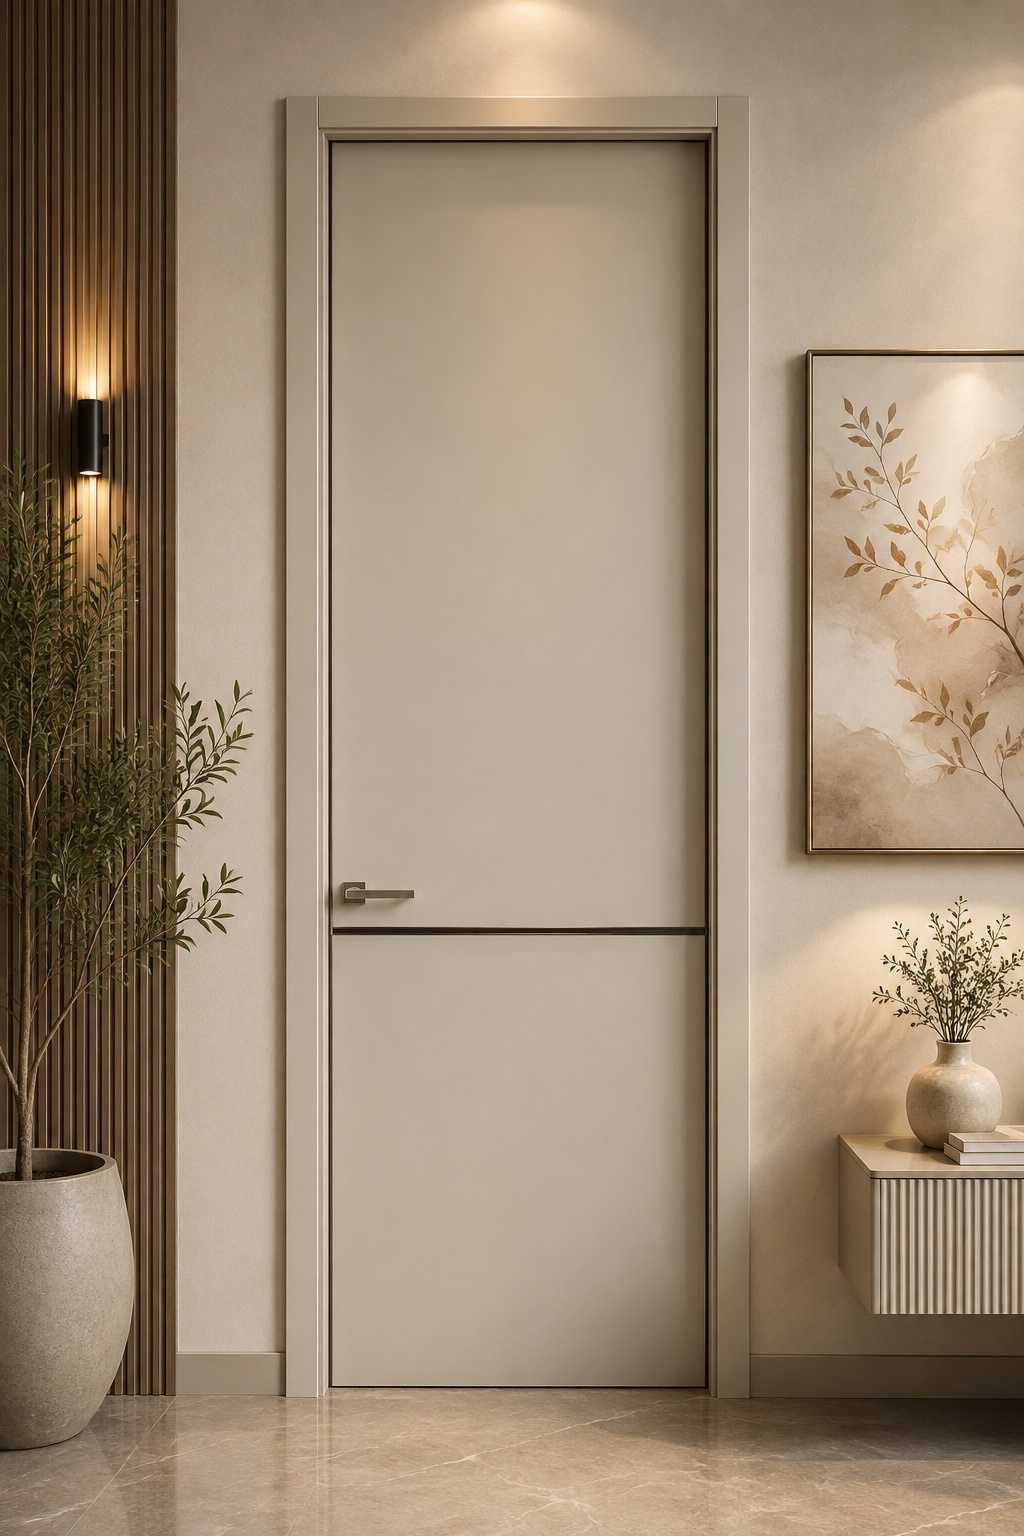
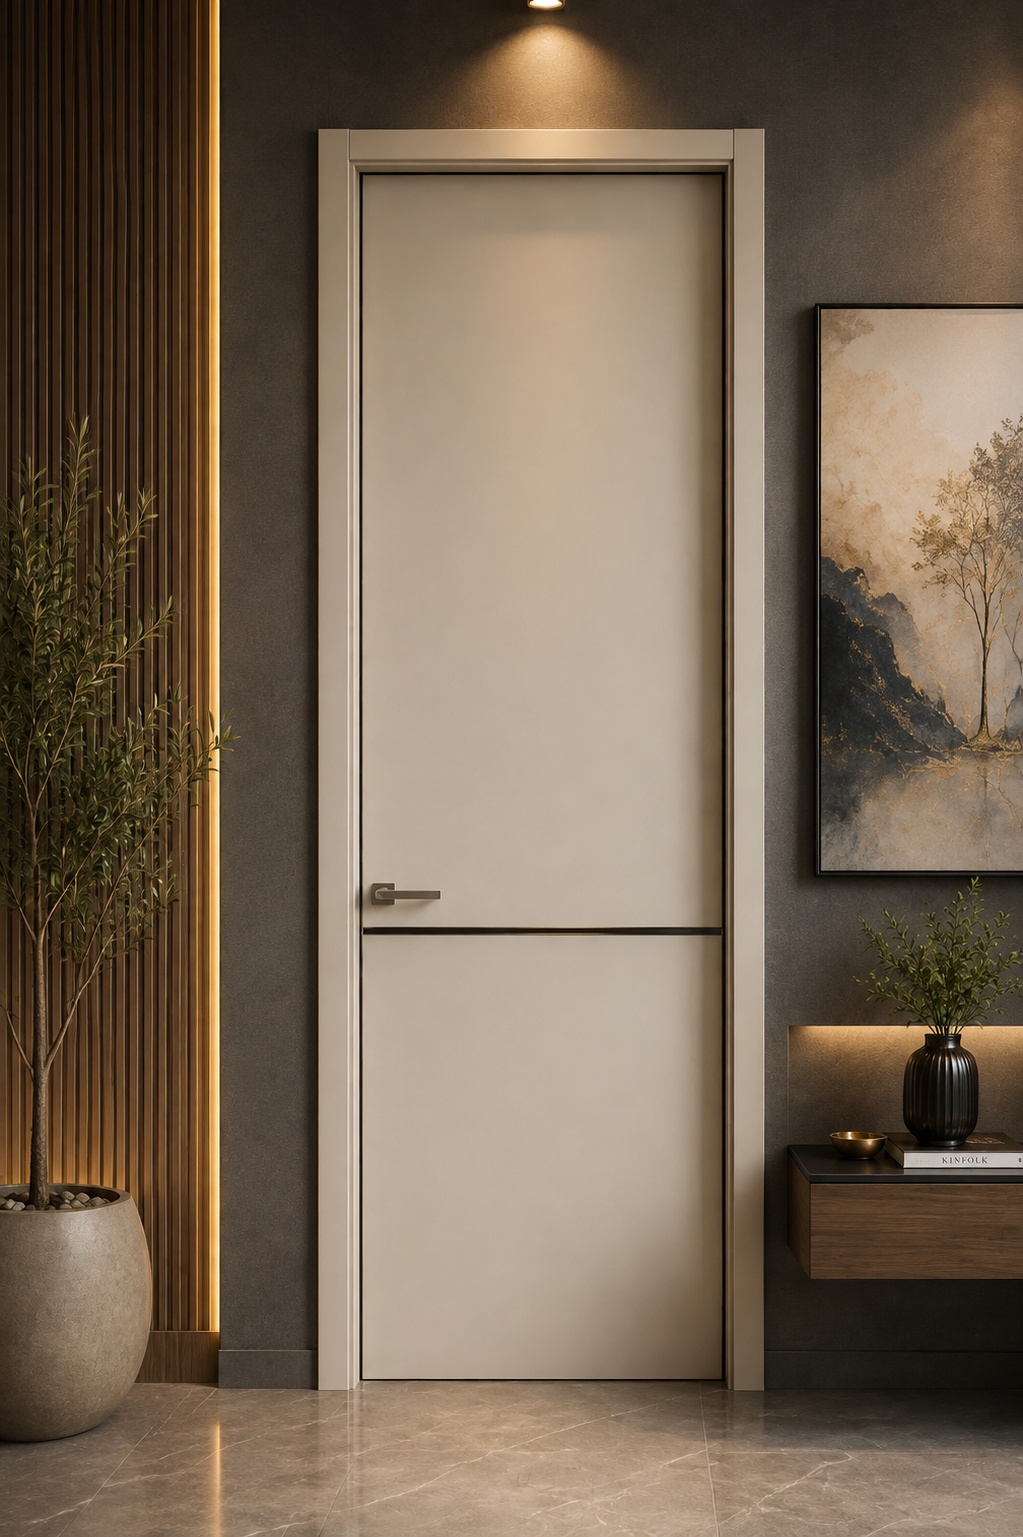
Fix punctuation and improve readability in various pages

diff --git a/app/our-story/page.tsx b/app/our-story/page.tsx
@@ -34,7 +34,7 @@ export default function OurStoryPage() {
           </h1>
 
           <p className="kicker">
-            Timeless design, reliable quality, and lasting durability —
+            Timeless design, reliable quality, and lasting durability
             engineered for modern living.
           </p>
         </div>
@@ -56,7 +56,7 @@ export default function OurStoryPage() {
               </span>
 
               <h2 className="serif story-title">
-                Doors that don&apos;t just connect spaces — they define them.
+                Doors that don&apos;t just connect spaces they define them.
               </h2>
 
               <p>
@@ -77,7 +77,7 @@ export default function OurStoryPage() {
               <p>
                 With a commitment to quality craftsmanship and attention to
                 detail, WoodLand is dedicated to creating doors that
-                don&apos;t just connect spaces — they define them.
+                don&apos;t just connect spaces they define them.
               </p>
             </div>
 
@@ -124,8 +124,8 @@ export default function OurStoryPage() {
           </h2>
 
           <p>
-            Instead of relying on solid timber — which swells, cracks, and
-            needs repainting — every WoodLand door is built from engineered
+            Instead of relying on solid timber which swells, cracks, and
+            needs repainting every WoodLand door is built from engineered
             PET, PPH, or CCP panels, sealed against moisture from the core
             out.
           </p>
@@ -144,7 +144,7 @@ export default function OurStoryPage() {
               <h4>PET</h4>
 
               <p>
-                Sealed core for wet areas — bathrooms, kitchens, utility
+                Sealed core for wet areas bathrooms, kitchens, utility
                 doors.
               </p>
             </div>
@@ -206,7 +206,7 @@ export default function OurStoryPage() {
 
               <p>
                 No polish, no paint, no annual touch-ups. Every WoodLand door
-                is finished to stay finished — water resistant, scratch
+                is finished to stay finished water resistant, scratch
                 resistant, termite proof, from the day it&apos;s fitted.
               </p>
             </div>
@@ -228,7 +228,7 @@ export default function OurStoryPage() {
 
               <p>
                 Engineered panels don&apos;t have the natural variance of
-                timber — what you approve in the showroom is exactly what
+                timber what you approve in the showroom is exactly what
                 arrives on-site, every single time.
               </p>
             </div>
@@ -250,7 +250,7 @@ export default function OurStoryPage() {
 
               <p>
                 From the panel to the lock, we supply and fit the hardware
-                that finishes the job — mortise sets, smart locks, handles,
+                that finishes the job mortise sets, smart locks, handles,
                 and hinges, matched and installed.
               </p>
             </div>

diff --git a/app/door-locks/page.tsx b/app/door-locks/page.tsx
@@ -30,7 +30,7 @@ export default function DoorLocksPage() {
           </h1>
           <p className="kicker">
             A door is only as secure as what closes it. We supply and fit
-            locking hardware matched to every WoodLand door — and most
+            locking hardware matched to every WoodLand door and most
             existing ones too.
           </p>
         </div>
@@ -51,7 +51,7 @@ export default function DoorLocksPage() {
                 <h3 className="serif">Mortise &amp; Cylindrical Locksets</h3>
                 <p>
                   Heavy-duty mortise and cylindrical locks for entrance,
-                  bedroom, and commercial doors — supplied in a range of
+                  bedroom, and commercial doors supplied in a range of
                   finishes to match your hardware.
                 </p>
               </div>
@@ -83,7 +83,7 @@ export default function DoorLocksPage() {
                 <span className="tag">Hardware</span>
                 <h3 className="serif">Handles, Hinges &amp; Closers</h3>
                 <p>
-                  Matched handle sets, heavy-duty hinges, and door closers —
+                  Matched handle sets, heavy-duty hinges, and door closers
                   finished to complement your chosen door panel.
                 </p>
               </div>
@@ -100,7 +100,7 @@ export default function DoorLocksPage() {
                 <h3 className="serif">Installation &amp; Maintenance</h3>
                 <p>
                   On-site fitting by our own technicians, plus after-sales
-                  repair and replacement — for both new WoodLand doors and
+                  repair and replacement for both new WoodLand doors and
                   existing ones.
                 </p>
               </div>
@@ -123,7 +123,7 @@ export default function DoorLocksPage() {
             <div className="process-step">
               <h4>Consultation</h4>
               <p>
-                Tell us your door type and security needs — we recommend the
+                Tell us your door type and security needs. We recommend the
                 right lock system.
               </p>
             </div>
@@ -172,7 +172,7 @@ export default function DoorLocksPage() {
                 }}
               >
                 Buying your door and lock from the same place means the
-                hardware is pre-matched to the panel thickness and frame — no
+                hardware is pre-matched to the panel thickness and frame, no
                 last-minute compatibility issues on install day.
               </p>
               <p

diff --git a/app/page.tsx b/app/page.tsx
@@ -42,7 +42,7 @@ export default function HomePage() {
         </div>
         <div className="hero-right">
           <div className="door-backdrop">
-            <img src="/homepage.png" alt="Modern entrance" />
+            <img src="/hero.png" alt="Modern entrance" />
           </div>
           <div className="door-stage" id="doorStage">
             <div className="door-leaf left">
@@ -53,8 +53,8 @@ export default function HomePage() {
             </div>
           </div>
           <div className="hero-right-tag" id="heroTag">
-            <div className="code">ZF-6813</div>
-            <div className="name serif">Crystal Carbon Panel</div>
+            <div className="code">26H1-13-LB311</div>
+            <div className="name serif">Polypropylene Homopolymer</div>
           </div>
         </div>
       </section>
@@ -263,7 +263,7 @@ export default function HomePage() {
 
         <p>
           What you approve in the showroom is what arrives
-          on-site — with consistent colour, texture, and finish.
+          on-site with consistent colour, texture, and finish.
         </p>
       </div>
 

diff --git a/app/contact/page.tsx b/app/contact/page.tsx
@@ -27,7 +27,7 @@ export default function ContactPage() {
           <h1 className="serif">Get a Quote.</h1>
           <p className="kicker">
             Tell us the opening size, material preference, and whether you
-            need locks fitted too — we&apos;ll follow up within one business
+            need locks fitted too we&apos;ll follow up within one business
             day.
           </p>
         </div>

diff --git a/app/collections/page.tsx b/app/collections/page.tsx
@@ -33,7 +33,7 @@ export default function CollectionsPage() {
           </h1>
 
           <p className="kicker">
-            PET, PPH and CCP panel doors — every one 100% water resistant,
+            PET, PPH and CCP panel doors every one 100% water resistant,
             termite proof, and finished to never need paint.
           </p>
         </div>
